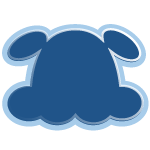
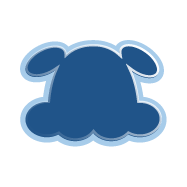
ロードアニメーション追加
ステージ選択からゲームシーンへの移行時のアニメーションを追加した

diff --git a/HEWGame/HEWGame/StageSelectScene.h b/HEWGame/HEWGame/StageSelectScene.h
@@ -1,5 +1,6 @@
 #pragma once
 #include "BaseScene.h"
+#include "Bubble.h"
 
 class StageSelectScene : public BaseScene
 {
@@ -9,6 +10,7 @@ private:
     std::unique_ptr<Object> load_bg;
     std::unique_ptr<Object> sensuikan;
     std::vector<std::unique_ptr<Object>> stageicon;
+    std::vector<std::unique_ptr<Bubble>> bubble;
     
     int framecount = 0;
     int nowStage = 1;
@@ -25,5 +27,10 @@ public:
 
     void Update() override;
     void Draw() override;
+
+    void Select();
+    void Load();
+    void Move();
+    void BG_Animation();
 };
 

diff --git a/HEWGame/HEWGame/GameScene.h b/HEWGame/HEWGame/GameScene.h
@@ -22,6 +22,8 @@ private:
     int mapval = 0;
     std::vector<std::vector<std::unique_ptr<Object>>> mapdata;
     std::vector<std::unique_ptr<Object>> characterObj;
+
+    std::vector<std::unique_ptr<Object>> cylinder;
     //std::vector<std::vector<int>> maplist;
 
     int WidthMAX = 0;

diff --git a/HEWGame/HEWGame/ResultScene.h b/HEWGame/HEWGame/ResultScene.h
@@ -10,7 +10,7 @@ private:
     std::vector<std::unique_ptr<Object>> scoreNum;
 
     int Score;
-    int tempScore;
+    int tempScore = 0;
     int revealIndex = 0;
     int count = 0;
     int state = 0;

diff --git a/HEWGame/HEWGame/Bubble.h b/HEWGame/HEWGame/Bubble.h
@@ -1,0 +1,11 @@
+#pragma once
+#include "Object.h"
+class Bubble : public Object
+{
+private:
+	float speed;
+public:
+	void Update();
+	void SetSpeed(float);
+};
+

diff --git a/HEWGame/HEWGame/Bubble.cpp b/HEWGame/HEWGame/Bubble.cpp
@@ -1,0 +1,9 @@
+#include "Bubble.h"
+
+void Bubble::Update() {
+	pos.y += speed;
+}
+
+void Bubble::SetSpeed(float spd) {
+	speed = spd;
+}
